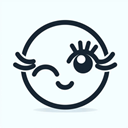
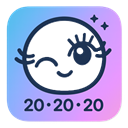
v1.0.4 release
- icons updated
- docs added
- minimalist theme enabled

diff --git a/ChromiumExtension/popup.html b/ChromiumExtension/popup.html
@@ -5,13 +5,12 @@
   <title>Eye Strain Reminder</title>
   <style>
     body {
-      font-family: Arial, sans-serif;
-      padding: 16px;
+      font-family: -apple-system, BlinkMacSystemFont, 'Segoe UI', Roboto, sans-serif;
+      padding: 20px;
       width: 240px;
-      background: #f7f9fa;
-      color: #222;
-      border-radius: 12px;
-      box-shadow: 0 2px 8px rgba(0,0,0,0.08);
+      background: #ffffff;
+      color: #333333;
+      border-radius: 8px;
     }
     h2 {
       margin-top: 0;
@@ -23,27 +22,25 @@
     #ruleImg {
       width: 100%;
       margin-bottom: 10px;
-      border-radius: 8px;
-      box-shadow: 0 1px 4px rgba(0,0,0,0.07);
+      border-radius: 4px;
     }
     button {
       margin-top: 12px;
-      padding: 8px 16px;
-      border-radius: 6px;
+      padding: 10px 16px;
+      border-radius: 4px;
       border: none;
-      background: #4f8cff;
-      color: #fff;
+      background: #40E0D0;
+      color: #ffffff;
       font-size: 1em;
       cursor: pointer;
       transition: background 0.2s;
-      box-shadow: 0 1px 4px rgba(0,0,0,0.07);
     }
     button:hover {
-      background: #357ae8;
+      background: #00CED1;
     }
     #settingsBtn {
-      background: #f1c40f;
-      color: #222;
+      background: #f0f0f0;
+      color: #333333;
       margin-left: 0;
       margin-top: 8px;
       font-size: 0.95em;
@@ -54,24 +51,23 @@
     #timerContainer {
       margin: 14px 0 8px 0;
       font-size: 1.1em;
-      background: #eaf1fb;
-      padding: 8px;
-      border-radius: 6px;
+      background: #f9f9f9;
+      padding: 10px;
+      border-radius: 4px;
       display: flex;
       align-items: center;
       gap: 8px;
     }
     #remaining {
       font-weight: bold;
-      color: #357ae8;
+      color: #40E0D0;
       font-size: 1.15em;
     }
     #settings {
-      background: #fffbe6;
-      border-radius: 8px;
+      background: #f9f9f9;
+      border-radius: 4px;
       padding: 10px;
       margin-top: 10px;
-      box-shadow: 0 1px 4px rgba(0,0,0,0.07);
     }
     label {
       display: flex;
@@ -81,13 +77,13 @@
     }
     input[type="number"] {
       border-radius: 4px;
-      border: 1px solid #ccc;
-      padding: 2px 6px;
+      border: 1px solid #cccccc;
+      padding: 4px 6px;
       font-size: 1em;
       width: 50px;
     }
     input[type="checkbox"] {
-      accent-color: #4f8cff;
+      accent-color: #40E0D0;
     }
     #infoPopup {
       display: none;
@@ -95,11 +91,10 @@
       top: 48px;
       left: 24px;
       z-index: 10;
-      background: #fffbe6;
-      color: #222;
-      border-radius: 8px;
+      background: #f9f9f9;
+      color: #333333;
+      border-radius: 4px;
       padding: 12px;
-      box-shadow: 0 2px 8px rgba(0,0,0,0.12);
       width: 220px;
       font-size: 0.98em;
     }
